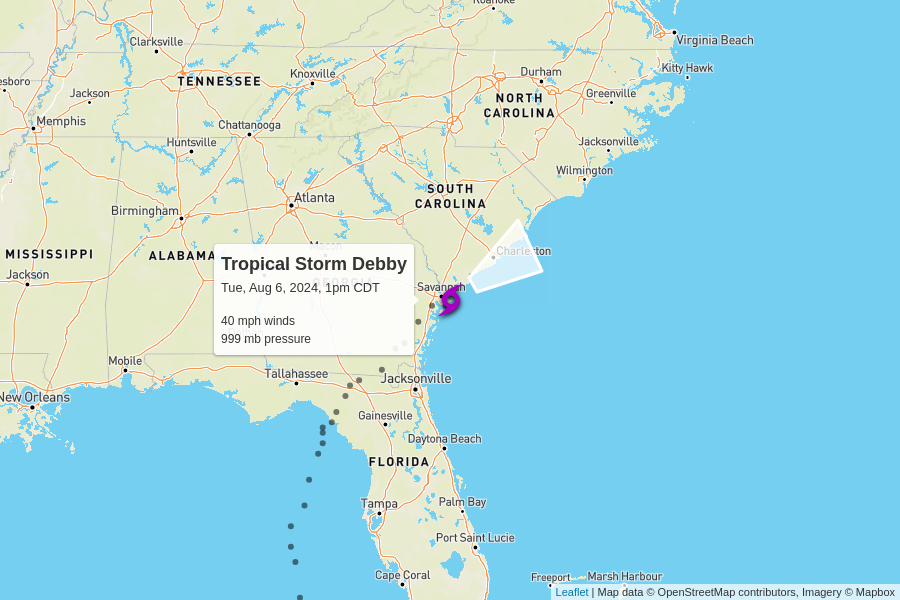
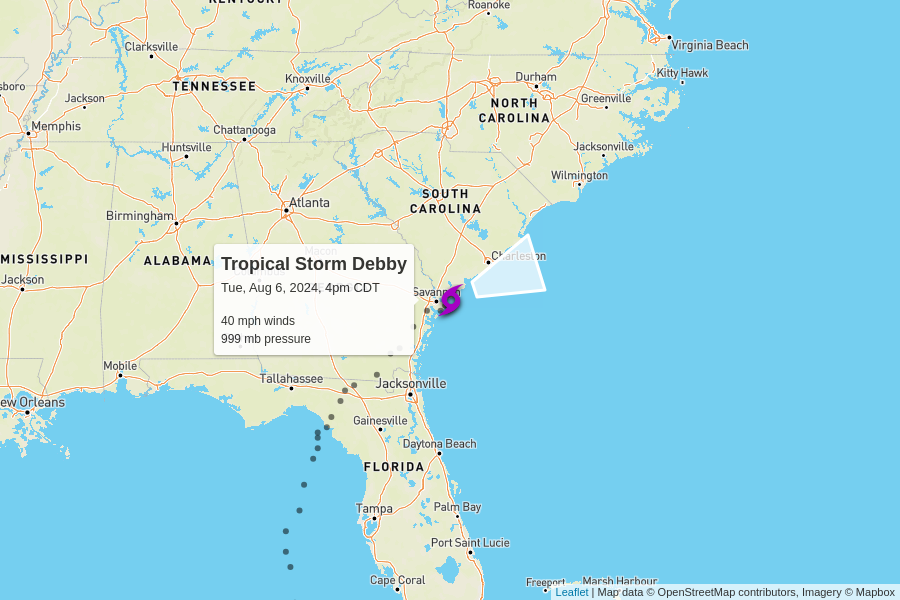
automatic update

diff --git a/docs/index.html b/docs/index.html
@@ -102,7 +102,7 @@
         <td colspan="6" class="storm category-0" >
           <h2>
             Tropical Storm Debby
-            <p class="updated">last updated <span data-time>2024-08-06T18:00:00.000Z</span></p>
+            <p class="updated">last updated <span data-time>2024-08-06T21:00:00.000Z</span></p>
           </h2>
         </td>
       </tr>
@@ -120,9 +120,9 @@
         <td>40 mph<br>0 mph since last update</td>
         <td>999 mb<br>0 mb since last update</td>
         <td>
-          5 mph to the east-northeast
+          3 mph to the east-northeast
           <br/>
-          <span style="display: inline-block; font-size: 1.5em; transform: rotate(60deg);">↑</span>
+          <span style="display: inline-block; font-size: 1.5em; transform: rotate(70deg);">↑</span>
         </td>
         <td><a href="https://raw.githubusercontent.com/mgwalker/atlantic-hurricanes/main/data/csv/AL042024.csv">AL042024.csv</a></td>
         <td><a href="https://www.nhc.noaa.gov/archive/2024/DEBBY.shtml?">NHC advisories</a></td>
